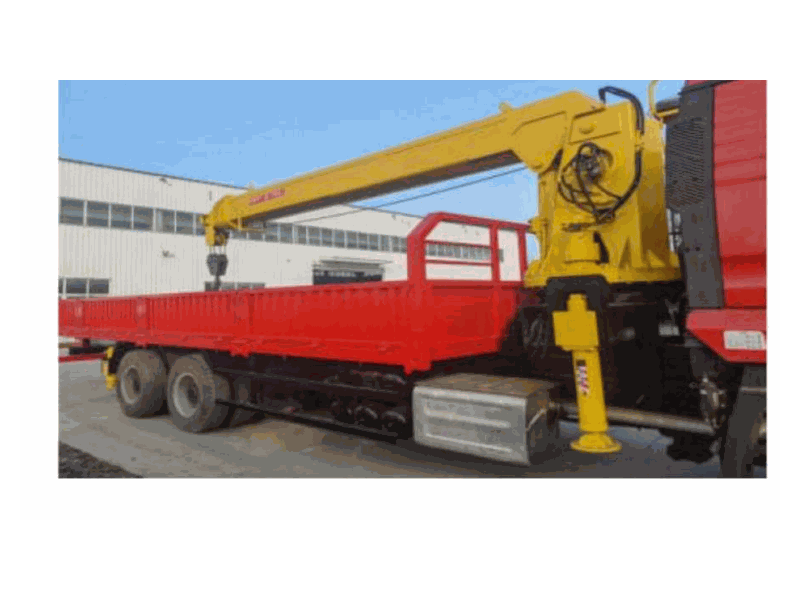
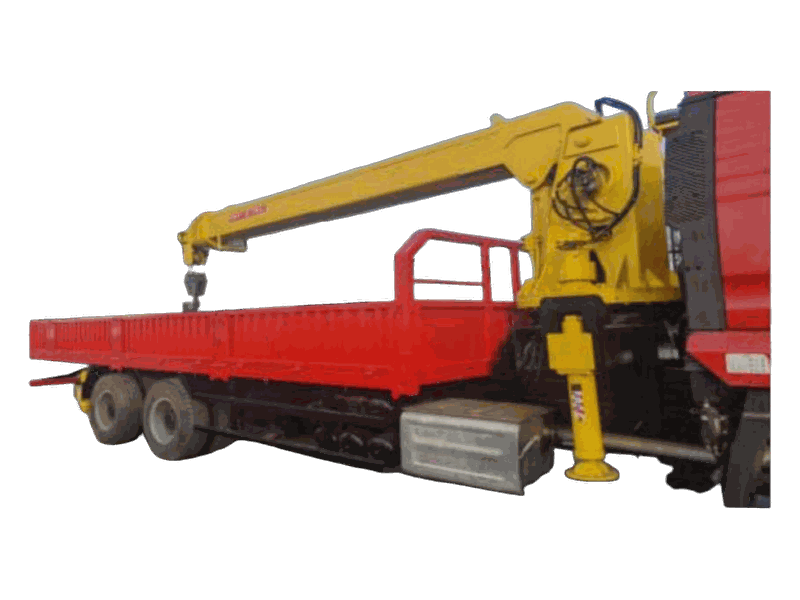
Fotos ZS: montacargas eléctrico, grúa sobre camión y camión grúa sin fondo
Las tres únicas fotos del catálogo que seguían con fondo de escena,
recortadas con rembg (birefnet-general) y recompuestas en PNG 800×600
con transparencia como el resto de las tarjetas.

Claude-Session: https://claude.ai/code/session_01G6q8F1fihbpsjB4wc9tjuD

diff --git a/docs/vault-gnh/GNH - Sitio Web/04 - Catalogo e fichas tecnicas.md b/docs/vault-gnh/GNH - Sitio Web/04 - Catalogo e fichas tecnicas.md
@@ -537,3 +537,9 @@ Ficaram fora, por não serem o núcleo da linha: HCG (giratório de mina), CJ/HD
 - **Potência do motor não publicada**: o manual lista 3 / 3,3 / 5,5 / 6,05 kW sem dizer qual equipa a N50. Publicar só quando o dono confirmar a variante.
 - Foto do card, da página e da ficha (`mezcladora-de-mortero-n50.png`, 800×600 com alfa) é a máquina recortada da foto do banner (`mezcladora-mortero.jpg`) com `rembg`, modelo **birefnet-general** (isnet deixou restos do fundo entre as pernas; u2net cortou o tubo). Ordem dos pedidos do dono: desenho de linha do manual → rejeitado ("ficou ruim esse desenho"); foto do banner com fundo ambiente → pediu fundo branco. Não voltar aos dois primeiros.
 - Regras da página, vindas do briefing e dos leads de jun-2026: deixar explícito que **mistura e não bombeia** (26 leads confundiram com bomba de concreto), não prometer compatibilidade universal com qualquer colante, não esconder o requisito de trifásica 400 V.
+
+## Fotos com fundo de cena → recorte com rembg (set-2026)
+
+- Depois da N50 o dono pediu para tirar o fundo das fotos que ainda estavam em cena. Eram só três, todas do lote ZS: `zs-mont-electrico.png` (pátio com galpão), `zs-grua-camion.png` (galpão) e `zs-camion-grua.png` (céu). Recortadas com `rembg`, modelo **birefnet-general**, e recompostas em 800×600 com alfa; cópias em `gnh-hero/public/img/prod/` atualizadas junto.
+- Receita: `pip install rembg onnxruntime`; **uma imagem por processo** (na segunda inferência do birefnet o Python morre sem traceback, mesmo com 14 GB livres); fonte = o RGBA de `gnh-hero/public/img/prod/`, não o PNG quantizado de `assets/nuevo`.
+- Todas as outras 51 fotos de card já eram recortes; o inventário foi visual (folha de contato), porque cantos brancos ou alfa não bastam para detectar cena.
